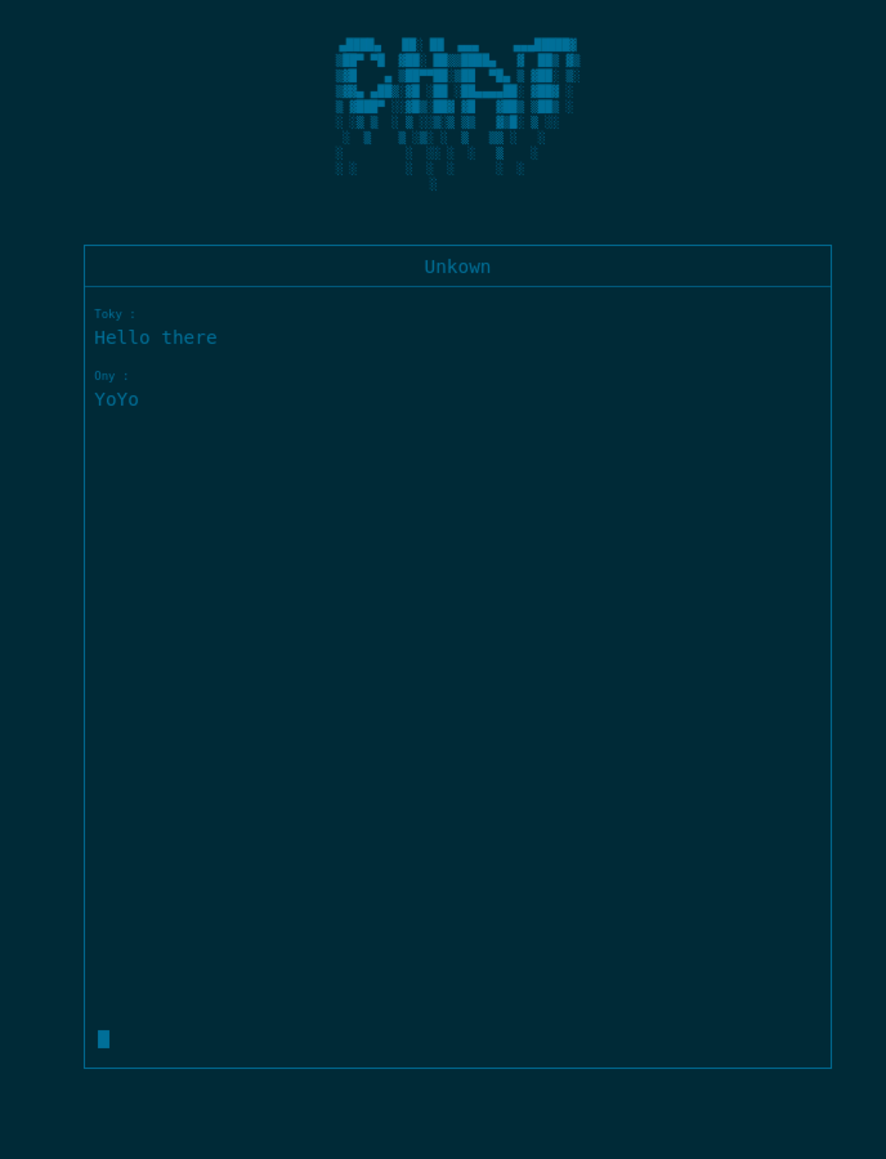
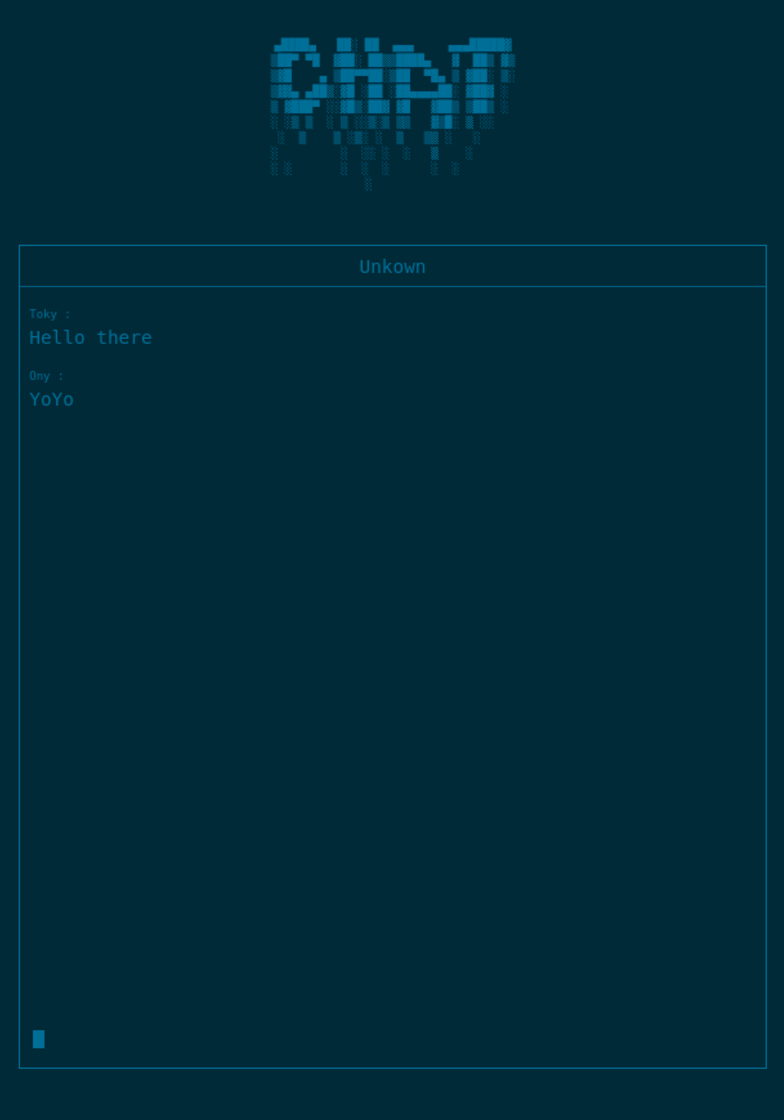
Added resposive to card header

diff --git a/src/Components/projectList.js b/src/Components/projectList.js
@@ -23,25 +23,27 @@ function ProjectList() {
         <ProjectBanner
           image={theme === "LIGTH" ? imageProject1 : imageProject1Dark}
           title="Chat app"
-          description="This is a chap app that doesn't require to sing in , anyone can join
-          and its realTime , build with html/css and the firebase API"
+          description="This is a chap app that does not require singing,
+          anyone can join and its real time, build with HTML/CSS and
+          the firebase API."
         ></ProjectBanner>
       </div>
       <div className={Style.project2}>
         <ProjectBanner
           image={theme === "LIGTH" ? imageProject2 : imageProject2Dark}
           title="Todo App"
-          description="A litle project from frontEndMentor.io , a created this simple todo app ,
-          buit with react and redux as state managment"
+          description="A little project from frontendmentor.io, I created
+          this simple to-do app, built with react and a redux as
+          state management"
         ></ProjectBanner>
       </div>
       <div className={Style.project3}>
         <ProjectBanner
           image={theme === "LIGTH" ? imageProject3 : imageProject3Dark}
           title="My Portofolio"
-          description="Still in Beta , it's my website portofolio , it will containg all the
-          details about all my project and will be used for my personal blog.
-          Buitl with react and scss"
+          description="Still in Beta, it's my website portfolio,
+          it will contain all the details about all my projects and will be used
+          for my personal blog. Built with React."
           large={isMobile ? false : true}
         ></ProjectBanner>
       </div>

diff --git a/src/css/cardHeader.module.css b/src/css/cardHeader.module.css
@@ -17,7 +17,7 @@
   flex-direction: column;
   justify-content: center;
   color: #7b61ff;
-  padding-left: 2.4rem;
+  padding: 2.4rem;
 }
 
 .text h1 {
@@ -27,13 +27,13 @@
 }
 
 .text p {
-  line-height: 18px;
-  font-size: 16px;
+  line-height: 3.2rem;
+  font-size: 2.4rem;
   font-weight: 600;
   letter-spacing: 0.5px;
   text-indent: 0;
   color: #3e3a51;
-  max-width: 49rem;
+  max-width: 50rem;
 }
 
 .image {
@@ -56,4 +56,63 @@
 
 .textDark p {
   color: #ffff;
+}
+
+@media (max-width: 1265px) {
+  .text h1 {
+    font-size: 5.2rem;
+  }
+
+  .text p {
+    font-size: 2rem;
+    line-height: 2.4rem;
+  }
+}
+
+@media (max-width: 1055px) {
+  .text h1 {
+    font-size: 4.2rem;
+  }
+
+  .text p {
+    font-size: 1.6rem;
+    line-height: 2rem;
+  }
+}
+
+@media (max-width: 900px) {
+  .text h1,
+  .text p {
+    text-align: center;
+  }
+
+  .text h1 {
+    font-size: 4.2rem;
+    margin-bottom: 1rem;
+  }
+
+  .text p {
+    max-width: unset;
+    font-size: 1.8rem;
+    line-height: 2rem;
+  }
+
+  .CardHeader {
+    height: auto;
+    display: grid;
+    grid-template-columns: 1fr;
+    grid-template-rows: 1fr 1fr;
+    gap: 1.6rem;
+  }
+}
+
+@media (max-width: 430px) {
+  .text h1 {
+    font-size: 2.6rem;
+  }
+
+  .text p {
+    font-size: 1.6rem;
+    line-height: 2rem;
+  }
 }

diff --git a/src/Components/cardHeader.js b/src/Components/cardHeader.js
@@ -32,19 +32,3 @@ function CardHeader() {
 }
 
 export default CardHeader;
-
-// eslint-disable-next-line no-lone-blocks
-{
-  /* <div className={Style.CardHeader}>
-      <div className={Style.hero}>
-        <img src={heroImage} alt="Hero" />
-      </div>
-      <div className={Style.text}>
-        <h1 className={Style.headingOne}>
-          Hello , I'm Toky &mdash; A Junior-Computer science student who trying
-          to specialize in Web developpement & UI/UX. &mdash; <br /> I'm glad
-          that you take your time to check my portofolio.
-        </h1>
-      </div>
-    </div> */
-}

diff --git a/src/Components/header.js b/src/Components/header.js
@@ -10,8 +10,9 @@ function Header() {
       </HeaderOne>
       <div className={HeaderStyle.presentation}>
         <Headertwo>
-          A Junior-Computer science student who trying to specialize in WEB
-          developpement & UI/UX.
+          A Junior-Computer science student who trying to specialize in Web
+          developpement & UI/UX. I'm glad that you take your time to check my
+          portofolio.
         </Headertwo>
       </div>
     </div>

diff --git a/src/css/noise.module.css b/src/css/noise.module.css
@@ -6,8 +6,8 @@
   bottom: 0;
   z-index: -1;
   display: block;
-  width: 100%;
-  height: 100%;
+  width: 150%;
+  height: 150%;
   background-image: url(../image/noise.gif);
   background-size: 100px 100px;
   opacity: 0.24;

diff --git a/src/css/ProjectBanner.module.css b/src/css/ProjectBanner.module.css
@@ -16,7 +16,7 @@
 }
 
 .imageProject:hover img {
-  transform: scale(1.1);
+  transform: scale(1.05);
 }
 
 .descriptionProject .title {
